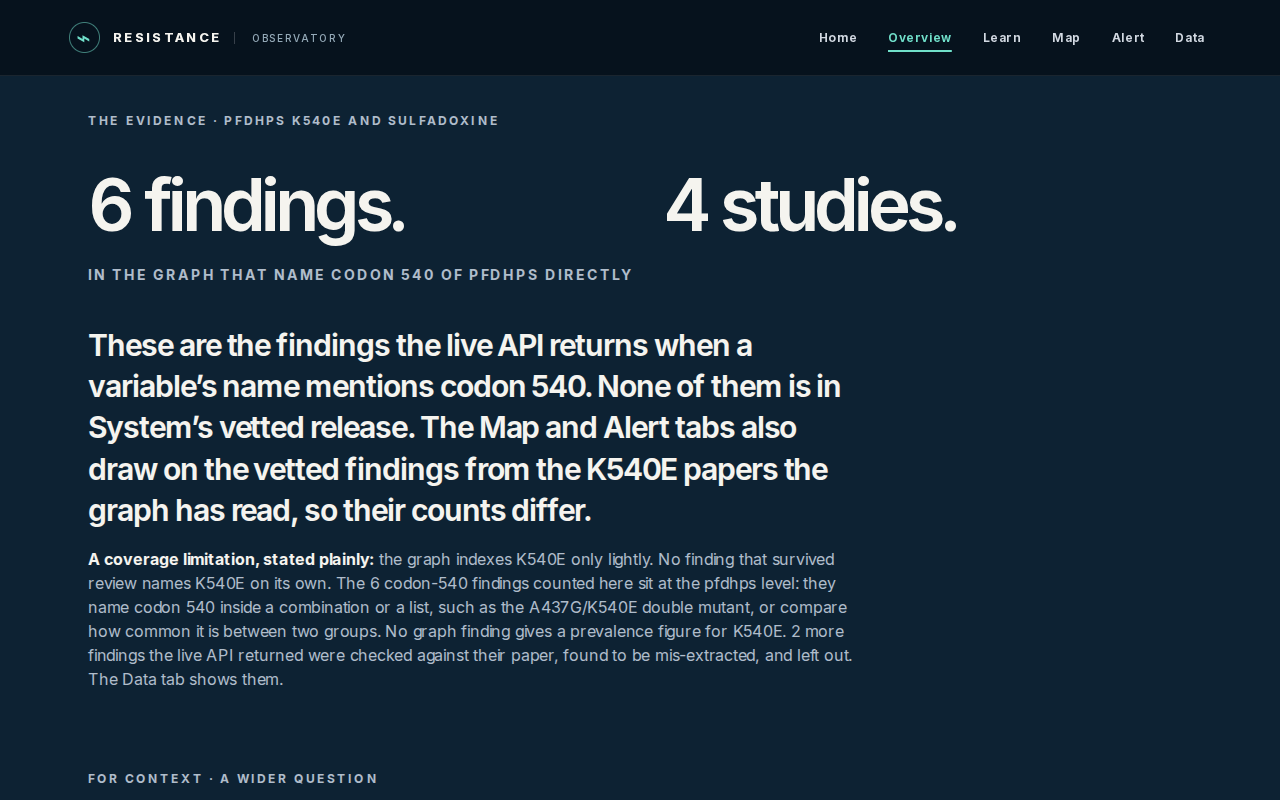
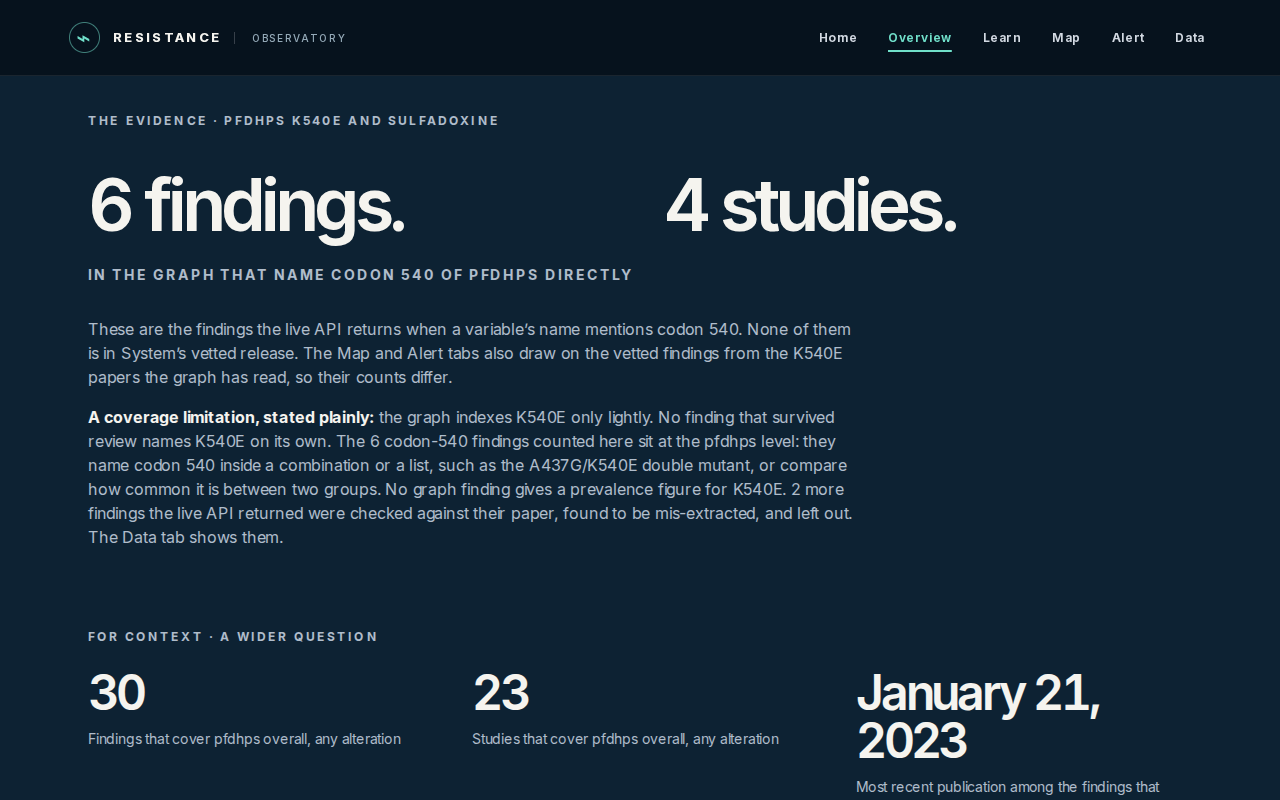
Learn: structure viewer and graph findings work together; Overview note at body size
- components/learn/StructureEvidence.tsx: findings panel under the viewer (variable names, statistic type and value, study-type chip, publication date, source link); choosing residue 540 highlights the panel, hovering a finding marks residue 540 in both viewers
- The link is our own marker definition (content/markers.ts sources); the page and README say neither source links to the other
- Findings flagged vetted:false stay excluded; an empty panel says so
- Overview: the evidence note is body-size supporting text

diff --git a/components/learn/StructureEvidence.tsx b/components/learn/StructureEvidence.tsx
@@ -1,0 +1,132 @@
+"use client";
+
+/**
+ * The structure viewer and the marker's graph findings, side by side in
+ * meaning but NOT joined in the data. The structure comes from RCSB PDB; the
+ * findings come from the System Public Graph; neither references the other.
+ * The only link is our own marker definition in content/markers.ts
+ * (`sources.pdbResidue` and `sources.graphVariableIds`). The page says so.
+ *
+ * Wiring, both ways:
+ *  - choosing the marker's residue in either viewer highlights this panel and
+ *    scrolls it into view;
+ *  - hovering or focusing a finding pulses that residue in both viewers.
+ */
+import { useCallback, useMemo, useRef, useState } from "react";
+import type { Marker } from "@/content/markers";
+import { MARKER_FINDINGS } from "@/lib/findings";
+import { formatGraphDate } from "@/lib/stats";
+import { EvidenceLink } from "@/components/EvidenceLink";
+import { StudyTypeChip } from "@/components/data/StudyTypeChip";
+import { StructureViewer } from "@/components/learn/StructureViewer";
+
+export function StructureEvidence({ marker }: { marker: Marker }) {
+  const sources = marker.sources;
+  /** The panel's opening lines: scrolled just into view, so the structures stay on screen. */
+  const headRef = useRef<HTMLDivElement | null>(null);
+  const [fromStructure, setFromStructure] = useState(false);
+  const [pulse, setPulse] = useState<number | null>(null);
+
+  // MARKER_FINDINGS already leaves out anything flagged `vetted: false`.
+  const findings = useMemo(() => {
+    const ids = new Set(sources?.graphVariableIds ?? []);
+    return MARKER_FINDINGS.filter((f) => ids.has(f.variable1Id) || ids.has(f.variable2Id));
+  }, [sources]);
+
+  const onPick = useCallback(
+    (resi: number) => {
+      if (!sources || resi !== sources.pdbResidue) {
+        setFromStructure(false);
+        return;
+      }
+      setFromStructure(true);
+      const reduced = window.matchMedia("(prefers-reduced-motion: reduce)").matches;
+      headRef.current?.scrollIntoView({ behavior: reduced ? "auto" : "smooth", block: "nearest" });
+    },
+    [sources],
+  );
+
+  const pulseOn = () => sources && setPulse(sources.pdbResidue);
+  const pulseOff = () => setPulse(null);
+
+  return (
+    <div className="space-y-6">
+      <StructureViewer onPick={onPick} pulseResi={pulse} />
+
+      <section
+        aria-labelledby="struct-findings-h"
+        className={`scroll-mt-24 rounded-[calc(var(--radius)+6px)] border bg-surface p-4 transition-colors sm:p-8 ${
+          fromStructure ? "border-2 border-drug" : "border-line"
+        }`}
+      >
+        <div ref={headRef} className="scroll-mb-6">
+        <p className="max-w-3xl text-base text-muted text-pretty">
+          The structure comes from RCSB PDB; the findings come from the System Public Graph. We connect them through
+          our own definition of this marker &mdash; neither source links to the other.
+        </p>
+
+        <div className="mt-5 flex flex-wrap items-baseline gap-x-4 gap-y-1">
+          <h2 id="struct-findings-h" className="font-display text-2xl font-semibold">
+            Graph findings for {marker.gene} {marker.alteration} and {marker.drug}
+          </h2>
+          <p aria-live="polite" className="font-mono text-sm text-drug">
+            {fromStructure && sources ? `▶ Selected from the structure: residue ${sources.pdbResidue}` : ""}
+          </p>
+        </div>
+        </div>
+
+        {findings.length === 0 ? (
+          <p className="mt-5 text-base">
+            No findings in the pinned graph data pass review for this marker, so there is nothing to list here.
+          </p>
+        ) : (
+          <>
+            <p className="mt-2 text-sm text-muted">
+              Statistics are shown as the graph records them and have not been checked against the papers. Point at
+              or focus a finding to mark the residue in both structures.
+            </p>
+            <ol className="mt-5 divide-y divide-line border-y border-line">
+              {findings.map((f) => (
+                <li
+                  key={f.systemId}
+                  onMouseEnter={pulseOn}
+                  onMouseLeave={pulseOff}
+                  onFocus={pulseOn}
+                  onBlur={pulseOff}
+                  className="grid gap-x-8 gap-y-2 py-4 hover:bg-bg/40 focus-within:bg-bg/40 md:grid-cols-[minmax(0,3fr)_minmax(0,2fr)]"
+                >
+                  <div className="min-w-0">
+                    <p className="text-base leading-snug">
+                      <span className="font-semibold">{f.variable1}</span>
+                      <span className="text-muted"> — associated with — </span>
+                      <span className="font-semibold">{f.variable2}</span>
+                    </p>
+                    <p className="mt-2 flex flex-wrap items-center gap-x-3 gap-y-1 font-mono text-sm">
+                      <span>
+                        {f.statisticType}
+                        {f.statisticValue !== null ? `: ${f.statisticValue}` : ": value not recorded"}
+                      </span>
+                      <StudyTypeChip studyType={f.studyType} />
+                    </p>
+                  </div>
+                  <div className="min-w-0">
+                    <p className="font-mono text-sm">
+                      {f.published ? (
+                        <>
+                          Published <time dateTime={f.published}>{formatGraphDate(f.published)}</time>
+                        </>
+                      ) : (
+                        "Publication date unknown"
+                      )}
+                    </p>
+                    <EvidenceLink systemId={f.systemId} pubmedId={f.pubmedId} doi={f.doi} className="mt-1" />
+                  </div>
+                </li>
+              ))}
+            </ol>
+          </>
+        )}
+      </section>
+    </div>
+  );
+}

diff --git a/components/learn/StructureViewer.tsx b/components/learn/StructureViewer.tsx
@@ -89,7 +89,15 @@ function load3Dmol(): Promise<ThreeDmol> {
 type Status = "loading" | "ready" | "failed";
 type Site = { resi: number; wt: string; mut: string };
 
-export function StructureViewer() {
+export function StructureViewer({
+  onPick,
+  pulseResi = null,
+}: {
+  /** Called when a residue is chosen in either viewer (click or button). */
+  onPick?: (resi: number) => void;
+  /** Residue to emphasise in both viewers, e.g. while a finding is hovered. */
+  pulseResi?: number | null;
+} = {}) {
   const boxes = useRef<(HTMLDivElement | null)[]>([null, null]);
   const viewers = useRef<(Viewer | null)[]>([null, null]);
   const [status, setStatus] = useState<Status[]>(["loading", "loading"]);
@@ -97,6 +105,10 @@ export function StructureViewer() {
   const [sites, setSites] = useState<Site[]>([]);
   const [unresolved, setUnresolved] = useState<number[]>([]);
   const [picked, setPicked] = useState<number | null>(null);
+  const onPickRef = useRef(onPick);
+  onPickRef.current = onPick;
+  /** Site colours per viewer, kept so residues can be re-styled later. */
+  const siteColors = useRef<Record<number, string>[]>([{}, {}]);
 
   const animMs = () =>
     typeof window !== "undefined" && window.matchMedia("(prefers-reduced-motion: reduce)").matches ? 0 : 700;
@@ -111,6 +123,7 @@ export function StructureViewer() {
       v.zoomTo(c ? { resi: around, chain: c } : { resi: around }, animMs());
     }
     setPicked(resi);
+    onPickRef.current?.(resi);
   }, []);
 
   const reset = useCallback(() => {
@@ -194,6 +207,7 @@ export function StructureViewer() {
           for (const site of found) {
             const isMarker = site.wt !== site.mut && Boolean(CHARGE[site.wt] || CHARGE[site.mut]);
             const c = isMarker ? color(STRUCTURES[i].siteColorVar) : color(CONTEXT_COLOR_VAR);
+            siteColors.current[i][site.resi] = c;
             v.addStyle({ resi: site.resi }, { stick: { color: c, radius: 0.32 } });
           }
           const sel = { resi: found.map((s) => s.resi) };
@@ -238,6 +252,41 @@ export function StructureViewer() {
       viewers.current = [null, null];
     };
   }, [compare]);
+
+  /* Pulse: emphasise one residue in BOTH viewers (thicker sticks plus a
+   * translucent sphere). One blink when motion is allowed; a steady emphasis
+   * under reduced motion. Restores the normal style when cleared. */
+  useEffect(() => {
+    const styleAll = (emphasis: number | null) => {
+      viewers.current.forEach((v, i) => {
+        if (!v) return;
+        for (const [resiStr, c] of Object.entries(siteColors.current[i])) {
+          const resi = Number(resiStr);
+          const on = resi === emphasis;
+          v.setStyle(
+            { resi, hetflag: false },
+            on
+              ? { cartoon: { color: CARTOON_COLOR }, stick: { color: c, radius: 0.55 }, sphere: { color: c, radius: 1.5, opacity: 0.45 } }
+              : { cartoon: { color: CARTOON_COLOR }, stick: { color: c, radius: 0.32 } },
+          );
+        }
+        v.render();
+      });
+    };
+    if (pulseResi === null) {
+      styleAll(null);
+      return;
+    }
+    styleAll(pulseResi);
+    if (animMs() === 0) return () => styleAll(null);
+    const off = window.setTimeout(() => styleAll(null), 260);
+    const on = window.setTimeout(() => styleAll(pulseResi), 520);
+    return () => {
+      window.clearTimeout(off);
+      window.clearTimeout(on);
+      styleAll(null);
+    };
+  }, [pulseResi, sites]);
 
   const pickedSite = sites.find((s) => s.resi === picked) ?? null;
   const anyReady = status.some((s) => s === "ready");

diff --git a/content/markers.ts b/content/markers.ts
@@ -76,6 +76,18 @@ export type Marker = {
   /** The point to carry into the other tabs, shown above the mechanism. */
   keyPoint?: { heading: string; body: string };
   diagram: Reviewable<Diagram>;
+  /**
+   * OUR definition of where this marker lives in each source. This is the only
+   * thing that connects the structure viewer to the graph findings: RCSB does
+   * not reference the System graph and the graph does not reference PDB.
+   */
+  sources?: {
+    /** Residue number of the marker in the PDB entries the viewer loads. */
+    pdbResidue: number;
+    /** System Public Graph variable ids whose name mentions this codon
+     *  (data/graph-stats.json, marker.variables). */
+    graphVariableIds: string[];
+  };
   /** "What this doesn't tell you" bullets. Omitted = the page's default three. */
   limits?: [string, string, string];
 };
@@ -157,6 +169,19 @@ export const MARKERS: Record<string, Marker> = {
       body: "The literature usually reports it alongside A437G as a double mutant, with resistance increasing as further changes accumulate. So a finding about K540E is usually a finding about a combination that contains it. When another tab talks about a haplotype containing K540E, it is talking about this marker.",
     },
     diagram: ok(PFDHPS_LADDER),
+    sources: {
+      pdbResidue: 540,
+      graphVariableIds: [
+        "4PX5Wm7Ytz",
+        "5bJrK_wJcx",
+        "6nc-md3xWP",
+        "bkHgD5M-T3",
+        "r04Uj8fH3c",
+        "TaKS18jKT6",
+        "zFQpDYEjPr",
+        "w1ktrLk4Wc",
+      ],
+    },
     limits: [
       "Carrying this marker is not the same as a patient\u2019s treatment failing. Outcome depends on the drug, the rest of the parasite\u2019s genetic background, and the clinical setting.",
       "A marker not appearing in the evidence here does not mean it is absent in the world. It may mean nobody has published on it, or that the extraction missed it.",

diff --git a/lib/findings.ts b/lib/findings.ts
@@ -13,7 +13,11 @@ export type MarkerFinding = {
   doi: string | null;
   variable1: string;
   variable2: string;
+  variable1Id: string;
+  variable2Id: string;
   statisticType: string;
+  /** The statistic's value exactly as the graph records it; null if absent. */
+  statisticValue: number | null;
   population: string | null;
   /** study_type exactly as the graph's Studies table records it; null = not recorded. */
   studyType: string | null;
@@ -27,7 +31,10 @@ type RawAssociation = {
   pubmed_id?: number | null;
   variable_1_name: string;
   variable_2_name: string;
+  variable_1_id: string;
+  variable_2_id: string;
   statistic_type: string;
+  statistic_value?: number | null;
   vetted?: boolean;
   vetting_note?: string;
 };
@@ -44,6 +51,9 @@ const toFinding = (a: RawAssociation): MarkerFinding => {
       doi: study?.doi ?? null,
       variable1: a.variable_1_name,
       variable2: a.variable_2_name,
+      variable1Id: a.variable_1_id,
+      variable2Id: a.variable_2_id,
+      statisticValue: typeof a.statistic_value === "number" ? a.statistic_value : null,
       statisticType: a.statistic_type.replaceAll("_", " "),
       population: study?.population ?? null,
       studyType: (study?.study_type as string | null | undefined)?.trim() || null,

diff --git a/components/learn/LearnView.tsx b/components/learn/LearnView.tsx
@@ -15,7 +15,7 @@ import { getMarker, MARKERS } from "@/content/markers";
 import { Chip } from "@/components/Chip";
 import { ActionButtons } from "@/components/learn/ActionButtons";
 import { MarkerDiagram } from "@/components/learn/MarkerDiagram";
-import { StructureViewer } from "@/components/learn/StructureViewer";
+import { StructureEvidence } from "@/components/learn/StructureEvidence";
 
 /** Same side gutters as the nav and the story page, so left edges line up. */
 const WRAP = "mx-auto max-w-[1340px] px-[clamp(16px,5.4vw,100px)]";
@@ -126,7 +126,7 @@ export function LearnView({ structureFigure }: { structureFigure?: ReactNode }) 
       <div className={`${WRAP} pt-10`}>
       {/* 3b — Published crystal structures: live 3D viewer, then the static
           figure (rendered on the server; absent if its images are). */}
-      <StructureViewer />
+      <StructureEvidence marker={marker} />
       {structureFigure}
 
       {/* 4 — Plain-language mechanism */}

diff --git a/components/home/Scale.tsx b/components/home/Scale.tsx
@@ -54,8 +54,8 @@ export function Scale() {
             in the graph that name codon 540 of pfdhps directly
           </p>
         </Reveal>
-        <Reveal className="mt-10">
-          <p className="max-w-3xl font-display text-2xl leading-snug sm:text-3xl text-pretty">
+        <Reveal className="mt-8">
+          <p className="max-w-3xl text-base text-muted text-pretty">
             These are the findings the live API returns when a variable&rsquo;s name mentions codon 540. None
             of them is in System&rsquo;s vetted release. The Map and Alert tabs also draw on the vetted findings
             from the K540E papers the graph has read, so their counts differ.

diff --git a/README.md b/README.md
@@ -283,6 +283,13 @@ What the viewer does and does not say (`components/learn/StructureViewer.tsx`):
 - It makes no claim about binding geometry or mechanism.
 - If the CDN or RCSB is unreachable, each panel shows a short message with a
   link to the RCSB page.
+- **The structure and the graph findings are not linked in either source.**
+  RCSB does not reference the System graph, and the graph does not reference
+  PDB. Learn shows the codon-540 findings next to the viewer and wires the two
+  together (choosing residue 540 highlights the findings; pointing at a finding
+  marks residue 540) only through our own marker definition in
+  `content/markers.ts` (`sources.pdbResidue`, `sources.graphVariableIds`). The
+  page says this above the findings panel.
 
 ### Alert sources (David)
 
